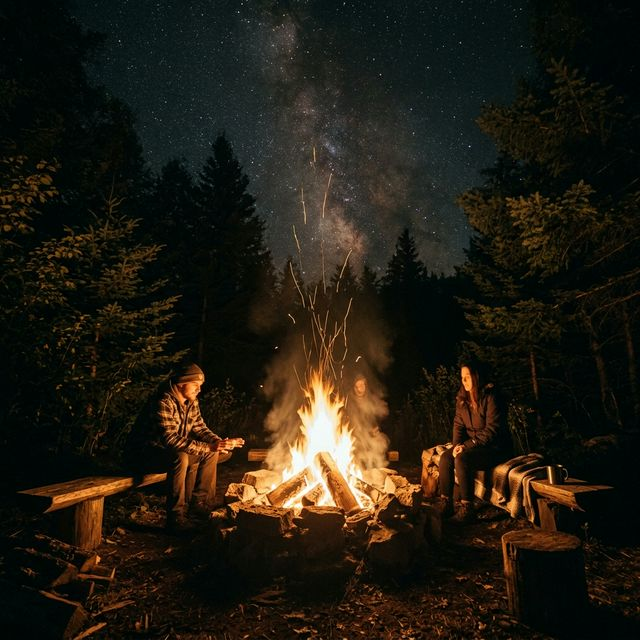
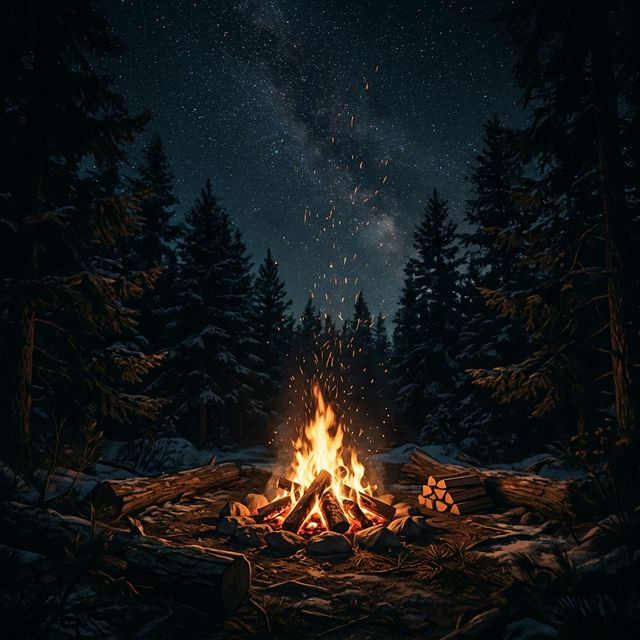
feat: immersive sound therapy visuals with Gemini backgrounds
- 6 Gemini-generated backgrounds: rain (Japanese garden), ocean (moonlit waves),
  forest (enchanted fireflies), birds (cherry blossom sunrise),
  campfire (starry night fire), noise (cosmic waves)
- Per-sound animated overlays:
  - Rain: 20 animated rain droplets
  - Ocean: expanding wave ripples
  - Forest/Birds: floating fireflies/light particles
  - Campfire: rising fire sparks
  - Noise: floating particle orbs
  - Tones: color-shifting frequency orbs
- Sound pulse rings emanating from center play button
- 6 new CSS keyframes: rain-drop, wave-ripple, firefly-float,
  fire-spark, sound-pulse, float-note
- Increased visual area from h-44 to h-56
- Enhanced brightness/saturation transitions

diff --git a/web/components/chat/InlineSoundPlayer.tsx b/web/components/chat/InlineSoundPlayer.tsx
@@ -113,6 +113,12 @@ const VISUAL_STYLES = `
 @keyframes visual-particles { 0% { transform: scale(1.02) rotate(0deg); } 50% { transform: scale(1.06) rotate(1deg); } 100% { transform: scale(1.02) rotate(0deg); } }
 @keyframes visual-glow { 0%,100% { box-shadow: 0 0 30px rgba(255,255,255,0.05); } 50% { box-shadow: 0 0 60px rgba(255,255,255,0.12); } }
 @keyframes eq-bar { 0%,100% { height: 20%; } 50% { height: 100%; } }
+@keyframes rain-drop { 0% { transform: translateY(-10px); opacity: 0; } 10% { opacity: 0.7; } 90% { opacity: 0.7; } 100% { transform: translateY(240px); opacity: 0; } }
+@keyframes wave-ripple { 0% { transform: scale(0.5); opacity: 0.6; } 100% { transform: scale(3); opacity: 0; } }
+@keyframes firefly-float { 0% { transform: translate(0,0); opacity: 0; } 20% { opacity: 1; } 50% { transform: translate(15px,-20px); opacity: 0.8; } 80% { opacity: 1; } 100% { transform: translate(-10px,10px); opacity: 0; } }
+@keyframes fire-spark { 0% { transform: translateY(0) scale(1); opacity: 1; } 100% { transform: translateY(-80px) scale(0); opacity: 0; } }
+@keyframes sound-pulse { 0% { transform: scale(1); opacity: 0.5; } 100% { transform: scale(2.5); opacity: 0; } }
+@keyframes float-note { 0% { transform: translateY(0) rotate(0deg); opacity: 0; } 15% { opacity: 0.8; } 85% { opacity: 0.6; } 100% { transform: translateY(-100px) rotate(20deg); opacity: 0; } }
 .animate-visual-breathe { animation: visual-breathe 6s ease-in-out infinite; }
 .animate-visual-drift { animation: visual-drift 10s ease-in-out infinite; }
 .animate-visual-waves { animation: visual-waves 8s ease-in-out infinite; }
@@ -286,32 +292,98 @@ export function InlineSoundPlayer({ soundType = 'white_noise', durationMinutes =
     <div className="rounded-xl overflow-hidden mt-2 animate-visual-glow" style={{ maxWidth: 420 }}>
       {/* ─── Visual Background ─── */}
       <div className="relative">
-        {/* Background image with animation */}
-        <div className="relative h-44 overflow-hidden rounded-t-xl">
+        <div className="relative h-56 overflow-hidden rounded-t-xl">
           <div
             className={`absolute inset-0 bg-cover bg-center transition-all duration-1000 ${isPlaying ? config.animClass : ''}`}
             style={{
               backgroundImage: `url(${config.image})`,
-              filter: isPlaying ? 'brightness(0.65)' : 'brightness(0.4)',
-              transition: 'filter 1s ease',
+              filter: isPlaying ? 'brightness(0.65) saturate(1.2)' : 'brightness(0.35)',
+              transition: 'filter 1.5s ease',
             }}
           />
           {/* Gradient overlay */}
           <div className={`absolute inset-0 bg-gradient-to-t ${config.gradient} to-transparent`} />
-          {/* Floating particles effect when playing */}
-          {isPlaying && (
+
+          {/* ─── Per-sound animated overlays ─── */}
+          {isPlaying && selectedSound === 'rain' && (
+            <div className="absolute inset-0 overflow-hidden pointer-events-none">
+              {[...Array(20)].map((_, i) => (
+                <div key={i} className="absolute w-[1px] bg-gradient-to-b from-transparent via-blue-300/40 to-transparent"
+                  style={{ left: `${2 + i * 5}%`, top: '-10px', height: '30px',
+                    animation: `rain-drop ${0.8 + Math.random() * 0.6}s linear infinite`,
+                    animationDelay: `${Math.random() * 2}s`,
+                  }} />
+              ))}
+            </div>
+          )}
+
+          {isPlaying && selectedSound === 'ocean' && (
+            <div className="absolute inset-0 overflow-hidden pointer-events-none">
+              {[...Array(4)].map((_, i) => (
+                <div key={i} className="absolute rounded-full border border-cyan-300/20"
+                  style={{ left: `${20 + i * 18}%`, bottom: '20%', width: '40px', height: '40px',
+                    animation: `wave-ripple ${3 + i * 0.5}s ease-out infinite`,
+                    animationDelay: `${i * 0.8}s`,
+                  }} />
+              ))}
+            </div>
+          )}
+
+          {isPlaying && (selectedSound === 'forest' || selectedSound === 'birds') && (
+            <div className="absolute inset-0 overflow-hidden pointer-events-none">
+              {[...Array(10)].map((_, i) => (
+                <div key={i} className={`absolute w-2 h-2 rounded-full ${selectedSound === 'forest' ? 'bg-emerald-300/60' : 'bg-amber-300/50'}`}
+                  style={{ left: `${5 + i * 9}%`, top: `${15 + (i % 4) * 20}%`,
+                    animation: `firefly-float ${4 + Math.random() * 3}s ease-in-out infinite`,
+                    animationDelay: `${i * 0.6}s`,
+                  }} />
+              ))}
+            </div>
+          )}
+
+          {isPlaying && selectedSound === 'campfire' && (
+            <div className="absolute inset-0 overflow-hidden pointer-events-none">
+              {[...Array(12)].map((_, i) => (
+                <div key={i} className="absolute w-1 h-1 bg-orange-400/70 rounded-full"
+                  style={{ left: `${30 + i * 3.5}%`, bottom: '30%',
+                    animation: `fire-spark ${1.5 + Math.random() * 1.5}s ease-out infinite`,
+                    animationDelay: `${Math.random() * 2}s`,
+                  }} />
+              ))}
+            </div>
+          )}
+
+          {isPlaying && config.category === 'noise' && (
             <div className="absolute inset-0 overflow-hidden pointer-events-none">
               {[...Array(8)].map((_, i) => (
-                <div
-                  key={i}
-                  className="absolute w-1 h-1 bg-white/30 rounded-full"
-                  style={{
-                    left: `${10 + i * 12}%`,
-                    bottom: `${10 + (i % 3) * 20}%`,
-                    animation: `eq-bar ${1.5 + i * 0.3}s ease-in-out infinite`,
-                    animationDelay: `${i * 0.2}s`,
-                  }}
-                />
+                <div key={i} className="absolute w-1.5 h-1.5 bg-white/25 rounded-full"
+                  style={{ left: `${10 + i * 11}%`, bottom: '10%',
+                    animation: `float-note ${3 + i * 0.4}s ease-out infinite`,
+                    animationDelay: `${i * 0.4}s`,
+                  }} />
+              ))}
+            </div>
+          )}
+
+          {isPlaying && config.category === 'tone' && (
+            <div className="absolute inset-0 overflow-hidden pointer-events-none">
+              {[...Array(6)].map((_, i) => (
+                <div key={i} className="absolute w-1 h-1 rounded-full"
+                  style={{ left: `${15 + i * 13}%`, bottom: '20%',
+                    background: `hsl(${260 + i * 15}, 70%, 70%)`,
+                    animation: `float-note ${2.5 + i * 0.5}s ease-out infinite`,
+                    animationDelay: `${i * 0.3}s`,
+                  }} />
+              ))}
+            </div>
+          )}
+
+          {/* Sound pulse rings from center when playing */}
+          {isPlaying && (
+            <div className="absolute inset-0 flex items-center justify-center pointer-events-none">
+              {[0, 1, 2].map(i => (
+                <div key={i} className="absolute w-16 h-16 rounded-full border border-white/10"
+                  style={{ animation: `sound-pulse ${3}s ease-out infinite`, animationDelay: `${i}s` }} />
               ))}
             </div>
           )}
